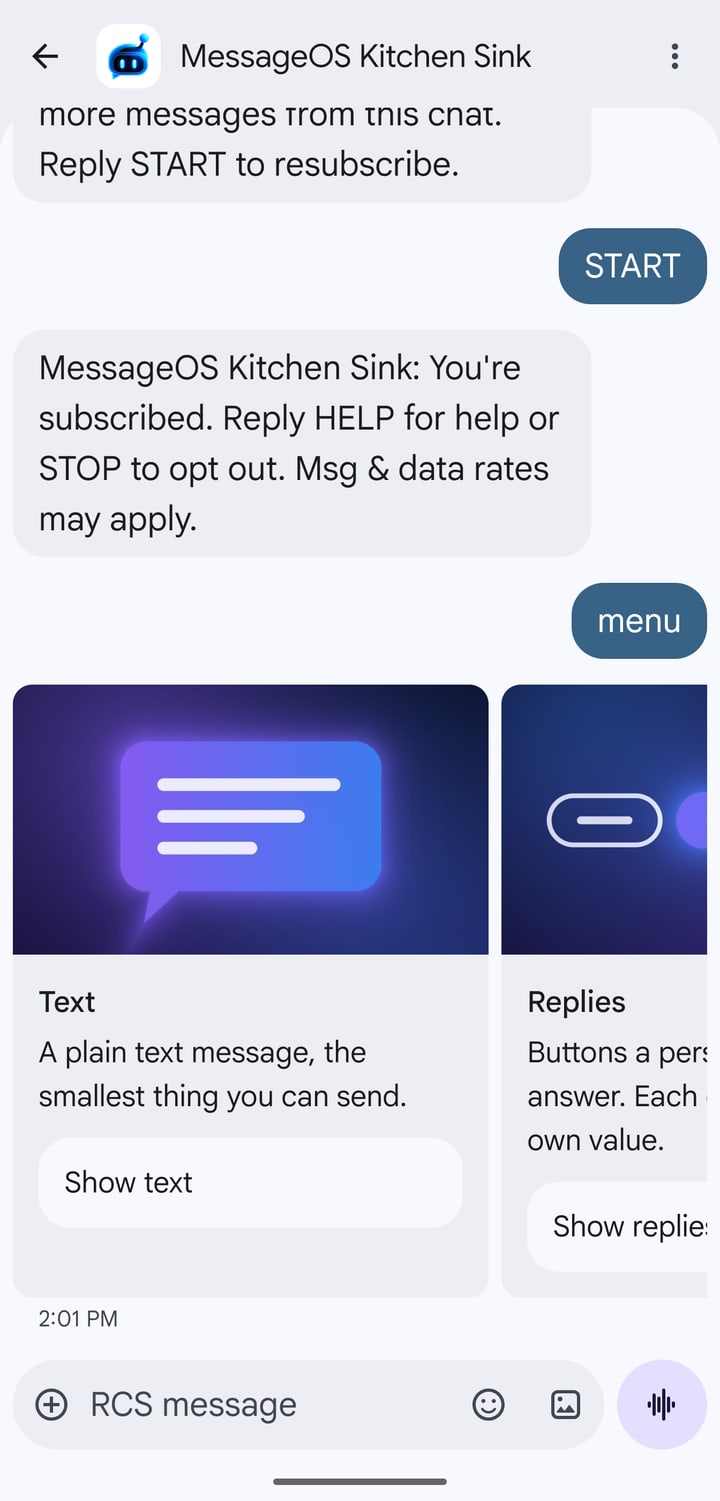
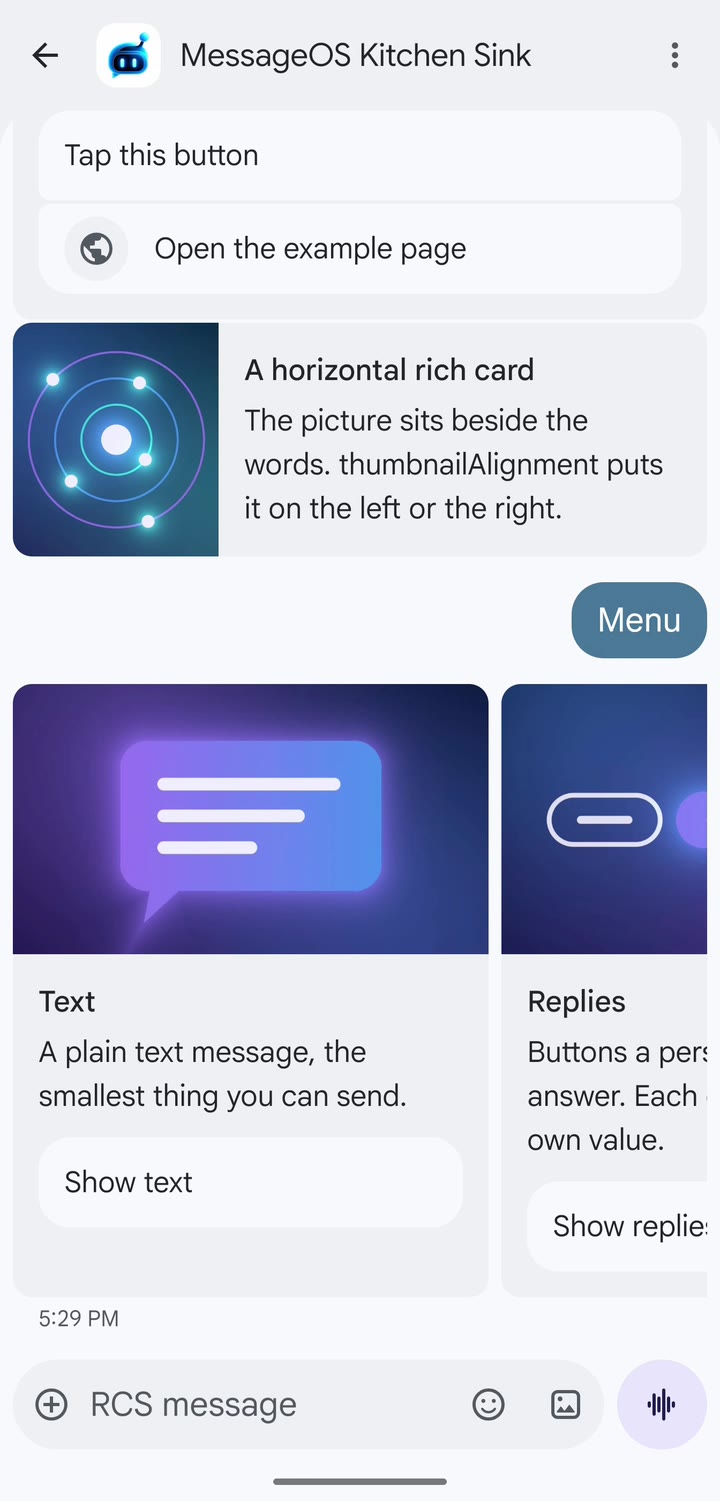
The docs links use docs.messageos.ai, the docs site's own address. The menu picture is a clean one of the menu carousel.

diff --git a/README.md b/README.md
@@ -11,7 +11,7 @@ These are screenshots from a phone in a conversation with the Kitchen Sink agent
 <table>
   <tr>
     <td align="center" valign="top" width="25%">
-      <a href="clips/menu.mp4"><img src="screenshots/menu.jpg" width="170" alt="The person typed menu and got a carousel with one card for each demo: Text with a Show text button, and Replies with a Show replies button."></a><br>
+      <a href="clips/menu.mp4"><img src="screenshots/menu.jpg" width="170" alt="The person tapped Menu and got a carousel with one card for each demo: Text with a Show text button, and Replies with a Show replies button."></a><br>
       <b>Menu</b><br>
       <code>carousel</code>
     </td>
@@ -60,7 +60,7 @@ These are screenshots from a phone in a conversation with the Kitchen Sink agent
 
 There are also clips of [the Text demo](clips/text.mp4) and [the typing indicator](clips/typing.mp4).
 
-The [Kitchen Sink showcase](https://messageos-docs.vercel.app/docs/guides/kitchen-sink) in the MessageOS docs has every screenshot with what it shows, and a card for each thing the app can do.
+The [Kitchen Sink showcase](https://docs.messageos.ai/docs/guides/kitchen-sink) in the MessageOS docs has every screenshot with what it shows, and a card for each thing the app can do.
 
 ## Documentation
 
@@ -68,13 +68,13 @@ The MessageOS docs explain everything this app does. They ask for a passcode, wh
 
 | Page | What is in it |
 | --- | --- |
-| [Kitchen Sink showcase](https://messageos-docs.vercel.app/docs/guides/kitchen-sink) | This app on a phone, and everything it can do |
-| [Quickstart](https://messageos-docs.vercel.app/docs/guides/quickstart) | A key, a first message in one call, then the reply |
-| [When your own system answers](https://messageos-docs.vercel.app/docs/guides/api-only) | The whole loop this app follows, with a checklist of what must be on |
-| [The example app](https://messageos-docs.vercel.app/docs/guides/example-app) | How to run this app, and its receiver in one file |
-| [Webhooks](https://messageos-docs.vercel.app/docs/guides/webhooks) | Every event, the retries, and a complete receiver in seven languages |
-| [Message types](https://messageos-docs.vercel.app/docs/guides/message-types) | A request body for each kind of message |
-| [API reference](https://messageos-docs.vercel.app/docs/api) | Every endpoint, with each request in eight languages |
+| [Kitchen Sink showcase](https://docs.messageos.ai/docs/guides/kitchen-sink) | This app on a phone, and everything it can do |
+| [Quickstart](https://docs.messageos.ai/docs/guides/quickstart) | A key, a first message in one call, then the reply |
+| [When your own system answers](https://docs.messageos.ai/docs/guides/api-only) | The whole loop this app follows, with a checklist of what must be on |
+| [The example app](https://docs.messageos.ai/docs/guides/example-app) | How to run this app, and its receiver in one file |
+| [Webhooks](https://docs.messageos.ai/docs/guides/webhooks) | Every event, the retries, and a complete receiver in seven languages |
+| [Message types](https://docs.messageos.ai/docs/guides/message-types) | A request body for each kind of message |
+| [API reference](https://docs.messageos.ai/docs/api) | Every endpoint, with each request in eight languages |
 
 ## What it shows
 
